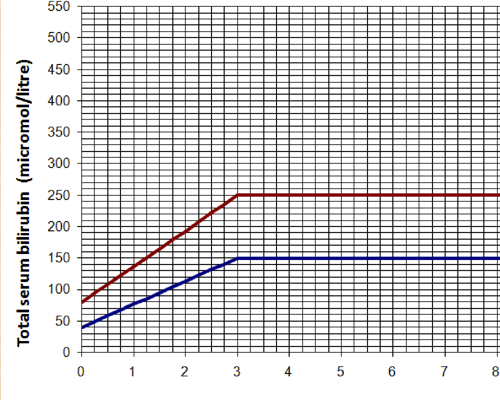
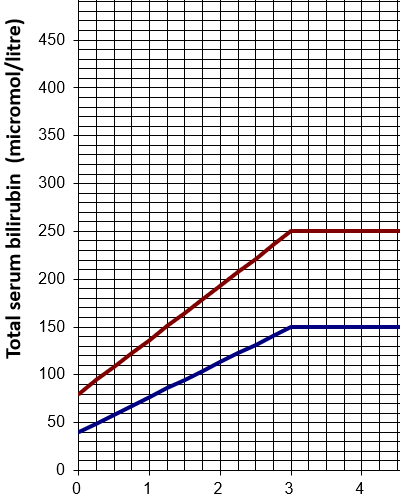
trying new resolution graphs

diff --git a/src/components/my-view1.js b/src/components/my-view1.js
@@ -18,7 +18,7 @@ class MyView1 extends PageViewElement {
       ${SharedStyles}
       <section>
         <h2>Term jaundice threshold</h2>
-        <p><img height="400" width="500" src="/images/jaundice/38.png"></p>
+        <p><img height="500" width="400" src="/images/jaundice/38.png"></p>
       </section>
       <section>
         <h2>Welcome</h2>

diff --git a/src/components/my-view32.js b/src/components/my-view32.js
@@ -18,7 +18,7 @@ class MyView32 extends PageViewElement {
       ${SharedStyles}
       <section>
         <h2>32 week Jaundice Threshold</h2>
-        <p><img height="400" width="500" src="/images/jaundice/32.png"></p>
+        <p><img height="500" width="400" src="/images/jaundice/32.png"></p>
         </section>
     `;
   }

diff --git a/src/components/my-view33.js b/src/components/my-view33.js
@@ -18,7 +18,7 @@ class MyView33 extends PageViewElement {
       ${SharedStyles}
       <section>
         <h2>33 week Jaundice Threshold</h2>
-        <p><img height="400" width="500" src="/images/jaundice/33.png"></p>
+        <p><img height="500" width="400" src="/images/jaundice/33.png"></p>
         </section>
     `;
   }

diff --git a/src/components/my-view34.js b/src/components/my-view34.js
@@ -18,7 +18,7 @@ class MyView34 extends PageViewElement {
       ${SharedStyles}
       <section>
         <h2>34 week Jaundice Threshold</h2>
-        <p><img height="400" width="500" src="/images/jaundice/34.png"></p>
+        <p><img height="500" width="400" src="/images/jaundice/34.png"></p>
         </section>
     `;
   }

diff --git a/src/components/my-view35.js b/src/components/my-view35.js
@@ -18,7 +18,7 @@ class MyView35 extends PageViewElement {
       ${SharedStyles}
       <section>
         <h2>35 week Jaundice Threshold</h2>
-        <p><img height="400" width="500" src="/images/jaundice/35.png"></p>
+        <p><img height="500" width="400" src="/images/jaundice/35.png"></p>
         </section>
     `;
   }

diff --git a/src/components/my-view36.js b/src/components/my-view36.js
@@ -18,7 +18,7 @@ class MyView36 extends PageViewElement {
       ${SharedStyles}
       <section>
         <h2>36 week Jaundice Threshold</h2>
-        <p><img height="400" width="500" src="/images/jaundice/36.png"></p>
+        <p><img height="500" width="400" src="/images/jaundice/36.png"></p>
         </section>
     `;
   }

diff --git a/src/components/my-view37.js b/src/components/my-view37.js
@@ -18,7 +18,7 @@ class MyView37 extends PageViewElement {
       ${SharedStyles}
       <section>
         <h2>37 week Jaundice Threshold</h2>
-        <p><img height="400" width="500" src="/images/jaundice/37.png"></p>
+        <p><img height="500" width="400" src="/images/jaundice/37.png"></p>
         </section>
     `;
   }
